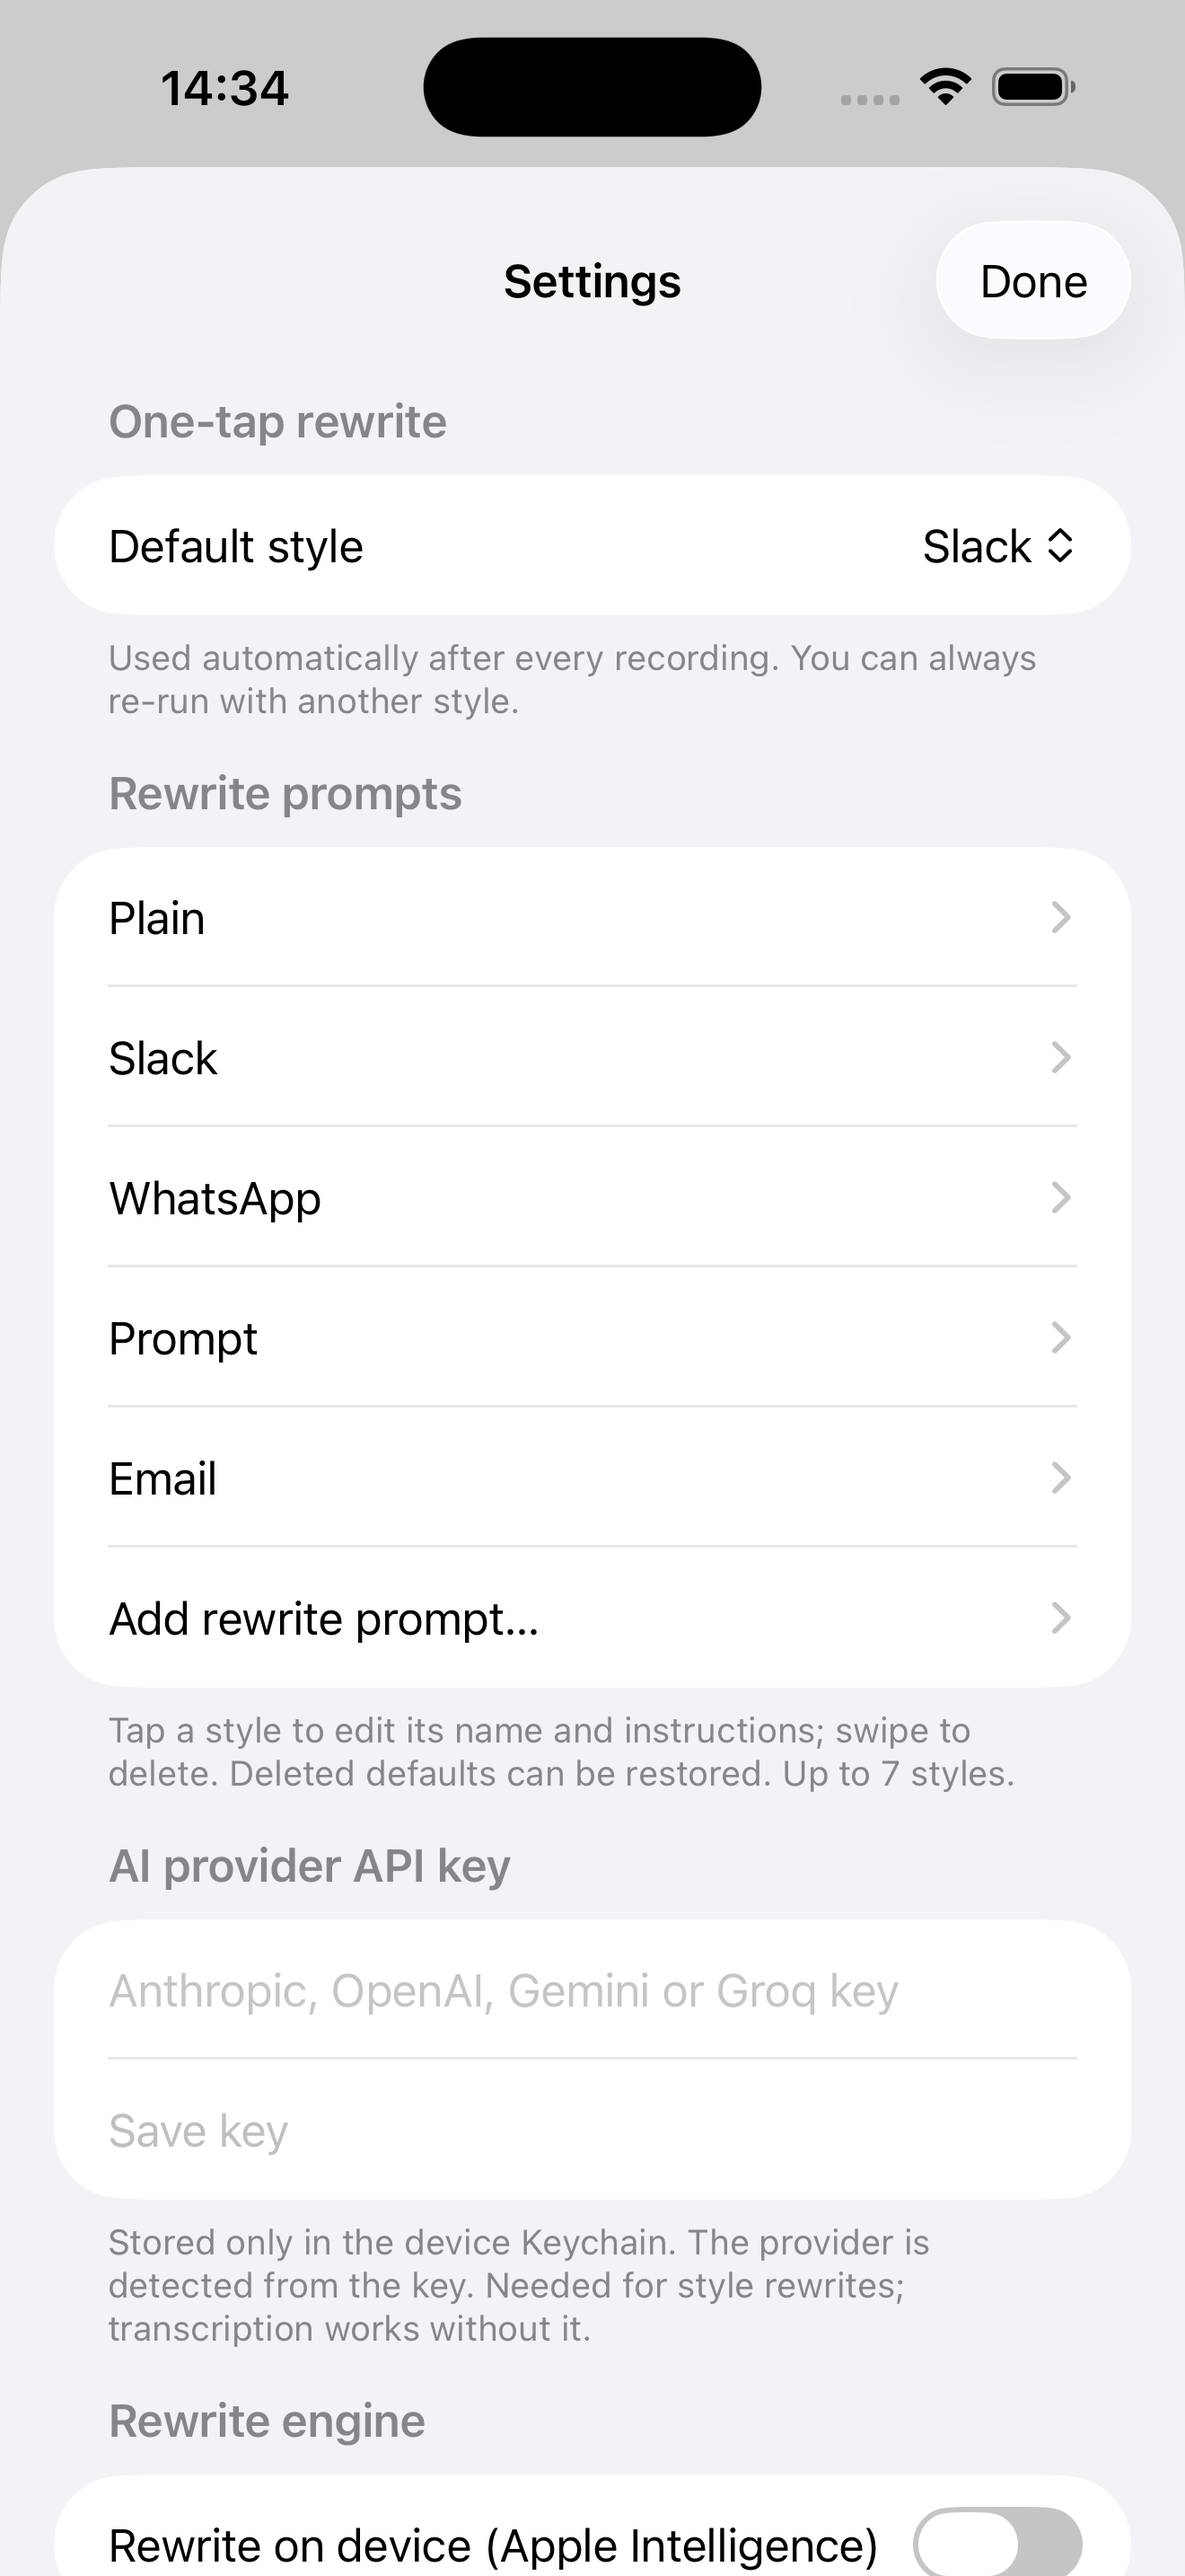
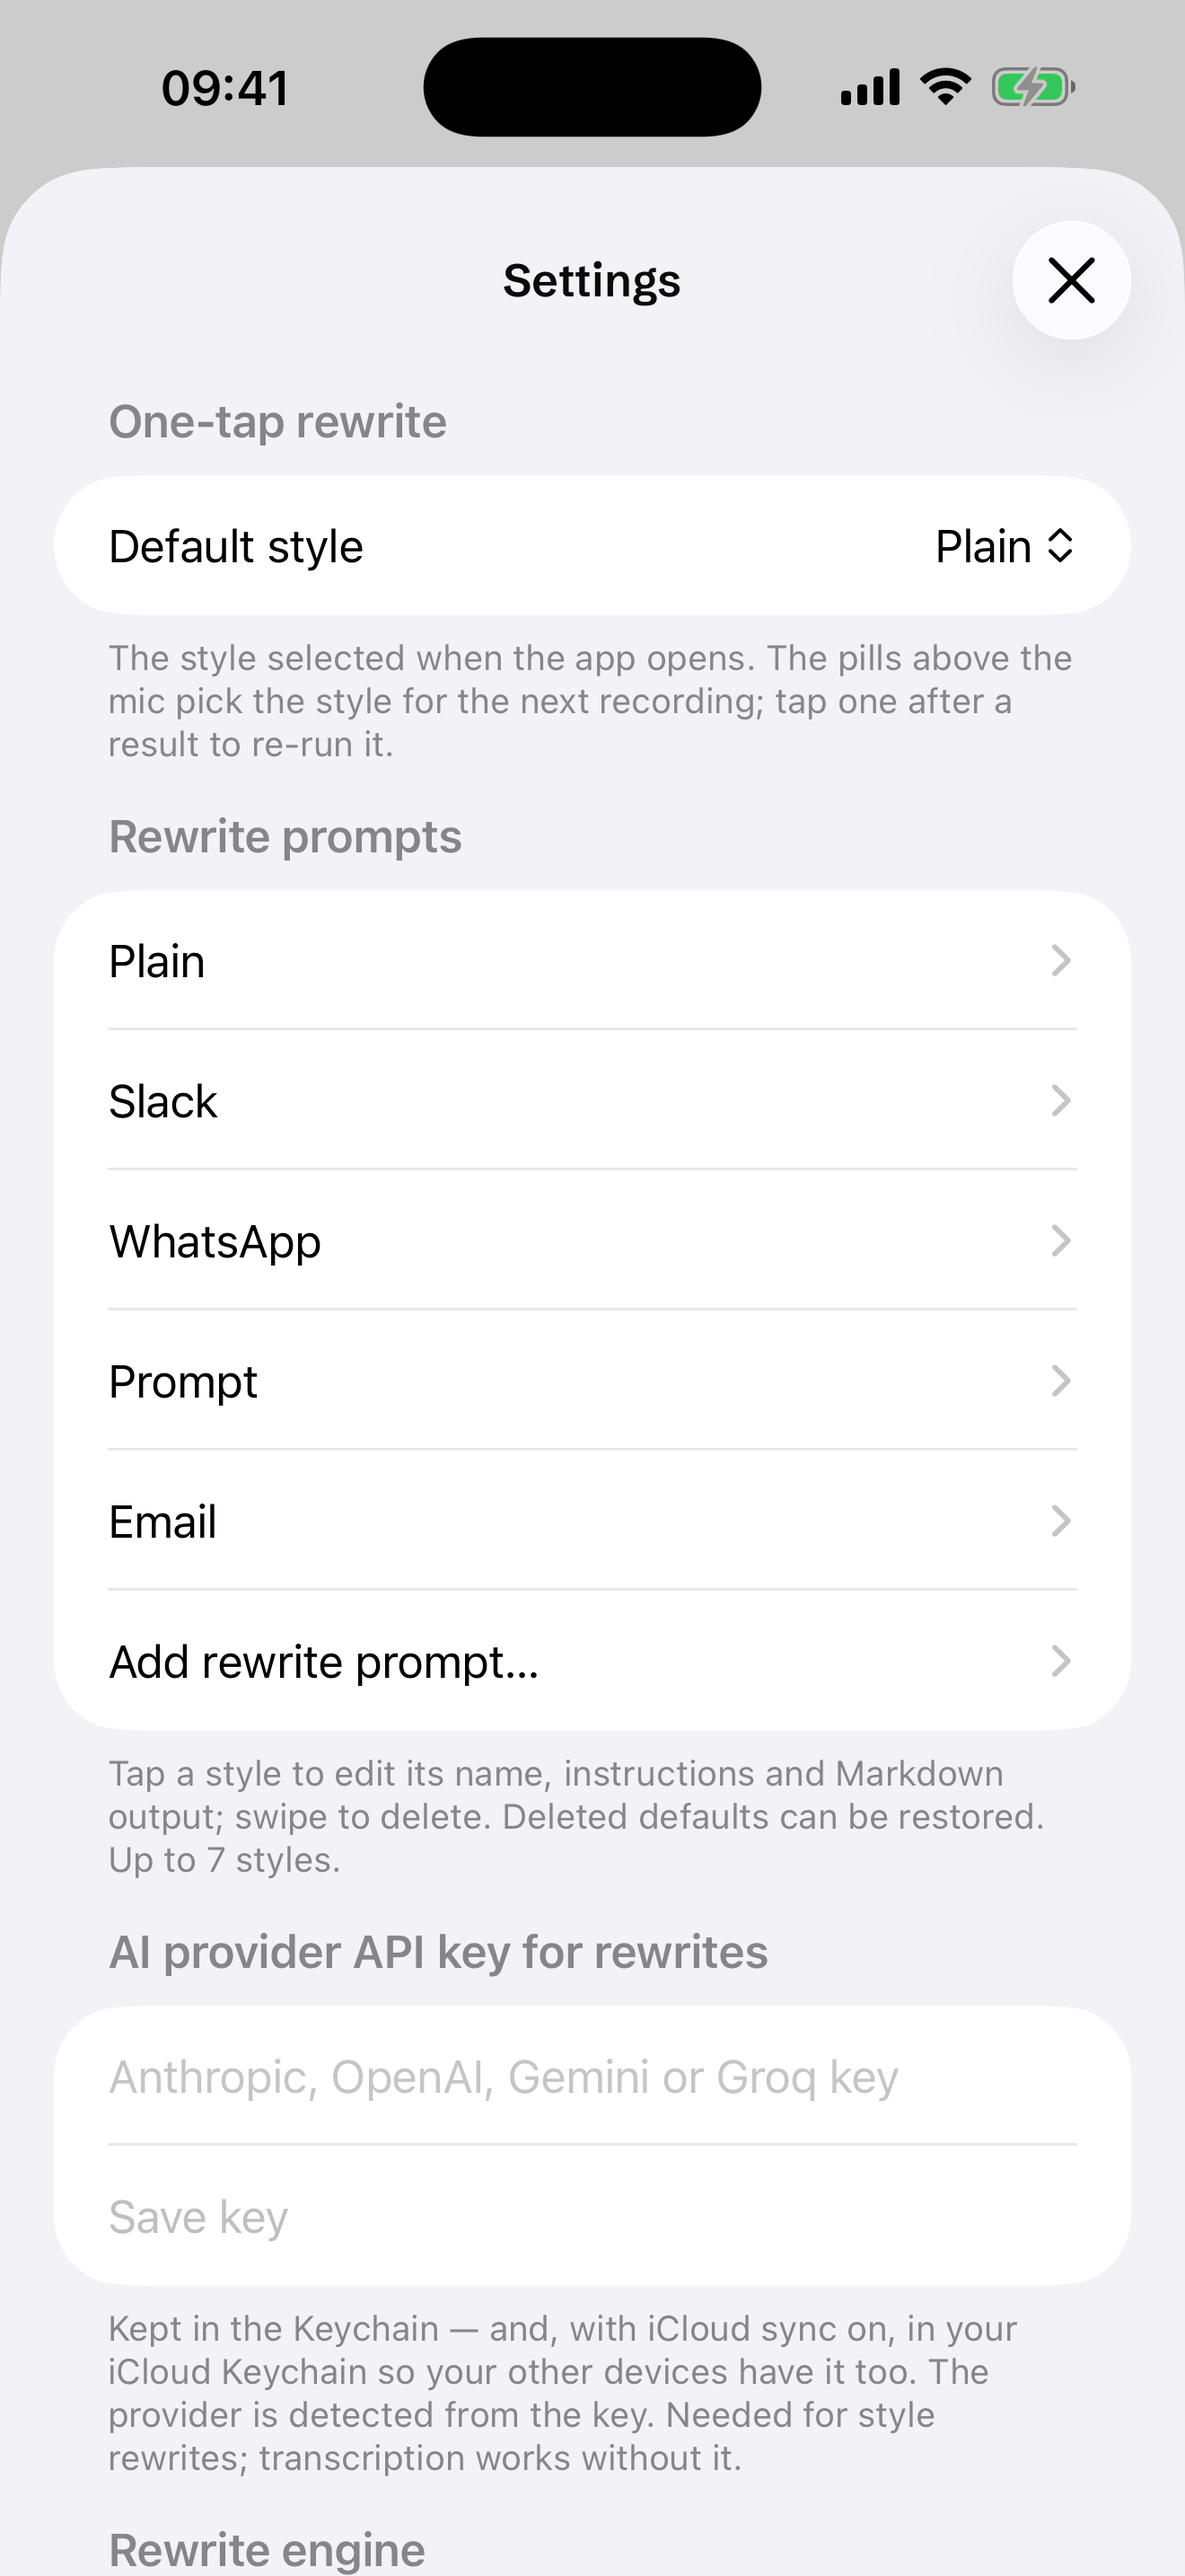
App Store screenshots for 1.1, and a way to take them again
The set on file was captured on 8 September, before the app had a
typeface of its own and before the result card lost its Edit chips — it
showed a font the app no longer uses. All five are retaken from the 1.1
build at 1320x2868, flattened to RGB, with the status bar overridden to
Apple's 9:41.

They are reproducible now rather than hand-made: SIMCTL_CHILD_UTTERCLIP_DEMO
= slack | prompt | history | settings puts the app into that screen at
launch, seeding a few past dictations for History. A URL scheme would
have done it too, but iOS asks "Open in Utterclip?" first and that
dialog lands in the screenshot. Debug builds only.

Two things the simulator taught us, written down so the next run is
quick: simctl reports a screenshot as written even when the simulator
daemon is denied access to the destination — capture somewhere under
/tmp and copy the files in afterwards — and a stale system alert
survives app relaunches, so erase the device before a run.

diff --git a/Utterclip/Views/ContentView.swift b/Utterclip/Views/ContentView.swift
@@ -163,6 +163,28 @@ struct ContentView: View {
             .onOpenURL { url in
                 // utterclip://record — from the Home Screen widget or the Control Center button.
                 // (The Mac app receives URLs in its AppDelegate and posts the notification above.)
+                #if DEBUG
+                // utterclip://demo — the Mac's debug seed, reachable on the phone too, so the
+                // App Store screenshots can be staged without dictating into a simulator that
+                // has no microphone. `history=1` fills the History screen as well.
+                if url.host == "demo" {
+                    let query = URLComponents(url: url, resolvingAgainstBaseURL: false)?.queryItems ?? []
+                    func value(_ name: String) -> String? { query.first(where: { $0.name == name })?.value }
+                    if value("history") == "1" { seedDebugHistory() }
+                    // ?show=history|settings opens that screen, so a screenshot run needs no taps
+                    switch value("show") {
+                    case "history": NotificationCenter.default.post(name: .utterclipShowHistory, object: nil); return
+                    case "settings": NotificationCenter.default.post(name: .utterclipShowSettings, object: nil); return
+                    default: break
+                    }
+                    var info: [String: Any] = ["edit": value("edit") == "1", "phone": false]
+                    if let raw = value("raw") { info["raw"] = raw }
+                    if let style = value("style") { info["style"] = style }
+                    NotificationCenter.default.post(name: .utterclipDebugResult,
+                                                    object: value("text") ?? "", userInfo: info)
+                    return
+                }
+                #endif
                 guard url.host == "record", !viewModel.recorder.isRecording, !recordUnavailable else { return }
                 Task { await viewModel.record() }
             }
@@ -191,6 +213,14 @@ struct ContentView: View {
             .task {
                 #if os(macOS)
                 viewModel.startWatchingOtherDevices() // the indicator; the phone stays as it is
+                #endif
+                #if DEBUG
+                // SIMCTL_CHILD_UTTERCLIP_DEMO=slack|prompt|history|settings puts the app straight
+                // into that screen at launch. A URL would do it too, but iOS asks "Open in
+                // Utterclip?" first and that dialog lands in the screenshot.
+                if let state = ProcessInfo.processInfo.environment["UTTERCLIP_DEMO"] {
+                    applyDebugState(state)
+                }
                 #endif
             }
             #if !os(macOS)
@@ -576,6 +606,47 @@ struct ContentView: View {
     }
 
     #if DEBUG
+    /// Puts the app into one of the states the App Store screenshots show.
+    private func applyDebugState(_ state: String) {
+        let slack = ("Quick heads-up: I pushed the fix for the login crash this morning, and it's already on the release branch.\n\nCould someone from QA give it a quick run before we cut tomorrow's build?",
+                     "um so quick heads up I pushed the fix for the login crash this morning uh it's on the release branch already can someone from QA give it a quick run before we cut the build tomorrow")
+        let prompt = ("## The job\n- Rewrite the release notes for 1.1.\n\n## The why\n- The current draft is too technical for the App Store.\n\n## The guardrails\n- Under 100 words.\n- No jargon.\n\n## Done means\n- A non-developer understands what changed.",
+                      "uh so rewrite the release notes for one point one because the current draft is way too technical for the app store, keep it under a hundred words, no jargon, and it's done when a non-developer gets what changed")
+        seedDebugHistory()
+        switch state {
+        case "slack":
+            viewModel.restore(HistoryEntry(rawTranscript: slack.1, styledText: slack.0, styleID: "slack"))
+        case "prompt":
+            viewModel.restore(HistoryEntry(rawTranscript: prompt.1, styledText: prompt.0, styleID: "prompt"))
+        case "history":
+            showHistory = true
+        case "settings":
+            showSettings = true
+        default:
+            break
+        }
+        resultLabel = .idle
+    }
+
+    /// A few past dictations, so the History screen has something to show in a screenshot.
+    private func seedDebugHistory() {
+        guard HistoryStore.shared.entries.isEmpty else { return }
+        let samples: [(TimeInterval, String, String)] = [
+            (-90,     "So I'm going to be about 10 minutes late to the stand-up. Could you start without me and I'll catch up on the notes afterwards.",
+                      "Running about 10 minutes late to standup. Go ahead and start without me — I'll catch up on the notes after."),
+            (-4_800,  "Can you rewrite the release notes for one point one, the current draft is way too technical for the App Store, keep it under a hundred words.",
+                      "## The job\n- Rewrite the release notes for 1.1.\n\n## The guardrails\n- Under 100 words.\n- No jargon."),
+            (-26_000, "Danke für das Review, ich habe die zwei Punkte zur Navigation übernommen und den Rest kommentiert.",
+                      "Danke für das Review! Die zwei Punkte zur Navigation habe ich übernommen, den Rest habe ich kommentiert."),
+            (-98_000, "Just a reminder that we should move the planning call to Thursday afternoon because half the team is out on Wednesday.",
+                      "Quick reminder: let's move the planning call to Thursday afternoon — half the team is out on Wednesday."),
+        ]
+        for (offset, raw, styled) in samples {
+            HistoryStore.shared.add(HistoryEntry(date: Date().addingTimeInterval(offset),
+                                                 rawTranscript: raw, styledText: styled, styleID: "slack"))
+        }
+    }
+
     /// `utterclip://demo`: a fixed result, shown rendered — and then, with `edit=1`, opened
     /// for editing the way a click on the card opens it, so the two states can be compared.
     private func showDebugResult(_ note: Notification) {
